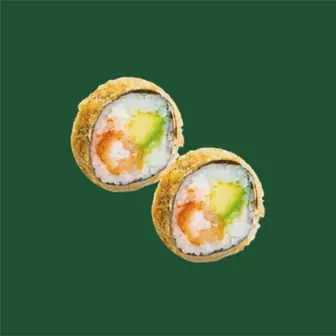
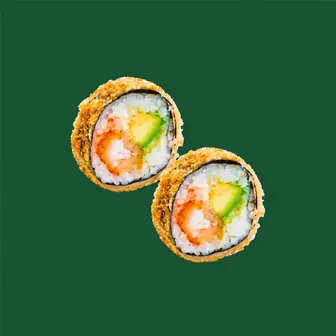
Update photo — Crunchy Fry Eby Fry

Changed region(s): [[0.2083, 0.2083, 0.8036, 0.8036]]

diff --git a/src/data/dishImages.ts b/src/data/dishImages.ts
@@ -201,7 +201,7 @@ export const CLIENT_DISH_IMAGES: Record<string, string> = {
   "b6bb8210a3": "/menu-hd-onglet24/crunchy-tiger-fry.png",
   "e8077d2295": "/menu-hd-onglet24/crunchy-dragon-eyes.png",
   "e3a96c288b": "/menu-hd-onglet24/crunchy-pacific.png",
-  "3583d51b73": "/menu-hd-onglet24/crunchy-fry-eby-fry.png",
+  "3583d51b73": "/menu-hd-onglet24/crunchy-fry-eby-fry.jpg",
   "45bca3a281": "/menu-hd-onglet24/crunchy-fry-salmon-fry.png",
 
   // Wok & Thaï — captures Yumlo 16-02 (miniatures)

diff --git a/src/data/yumloMenu.ts b/src/data/yumloMenu.ts
@@ -1509,7 +1509,7 @@ export const YUMLO_MENU = [
     "description": "Crevette pané, avocat, cheese 6 Pièces",
     "priceMAD": "55.25",
     "currency": "MAD",
-    "image": "/menu-hd-onglet24/crunchy-fry-eby-fry.png"
+    "image": "/menu-hd-onglet24/crunchy-fry-eby-fry.jpg"
   },
   {
     "id": "45bca3a281",
